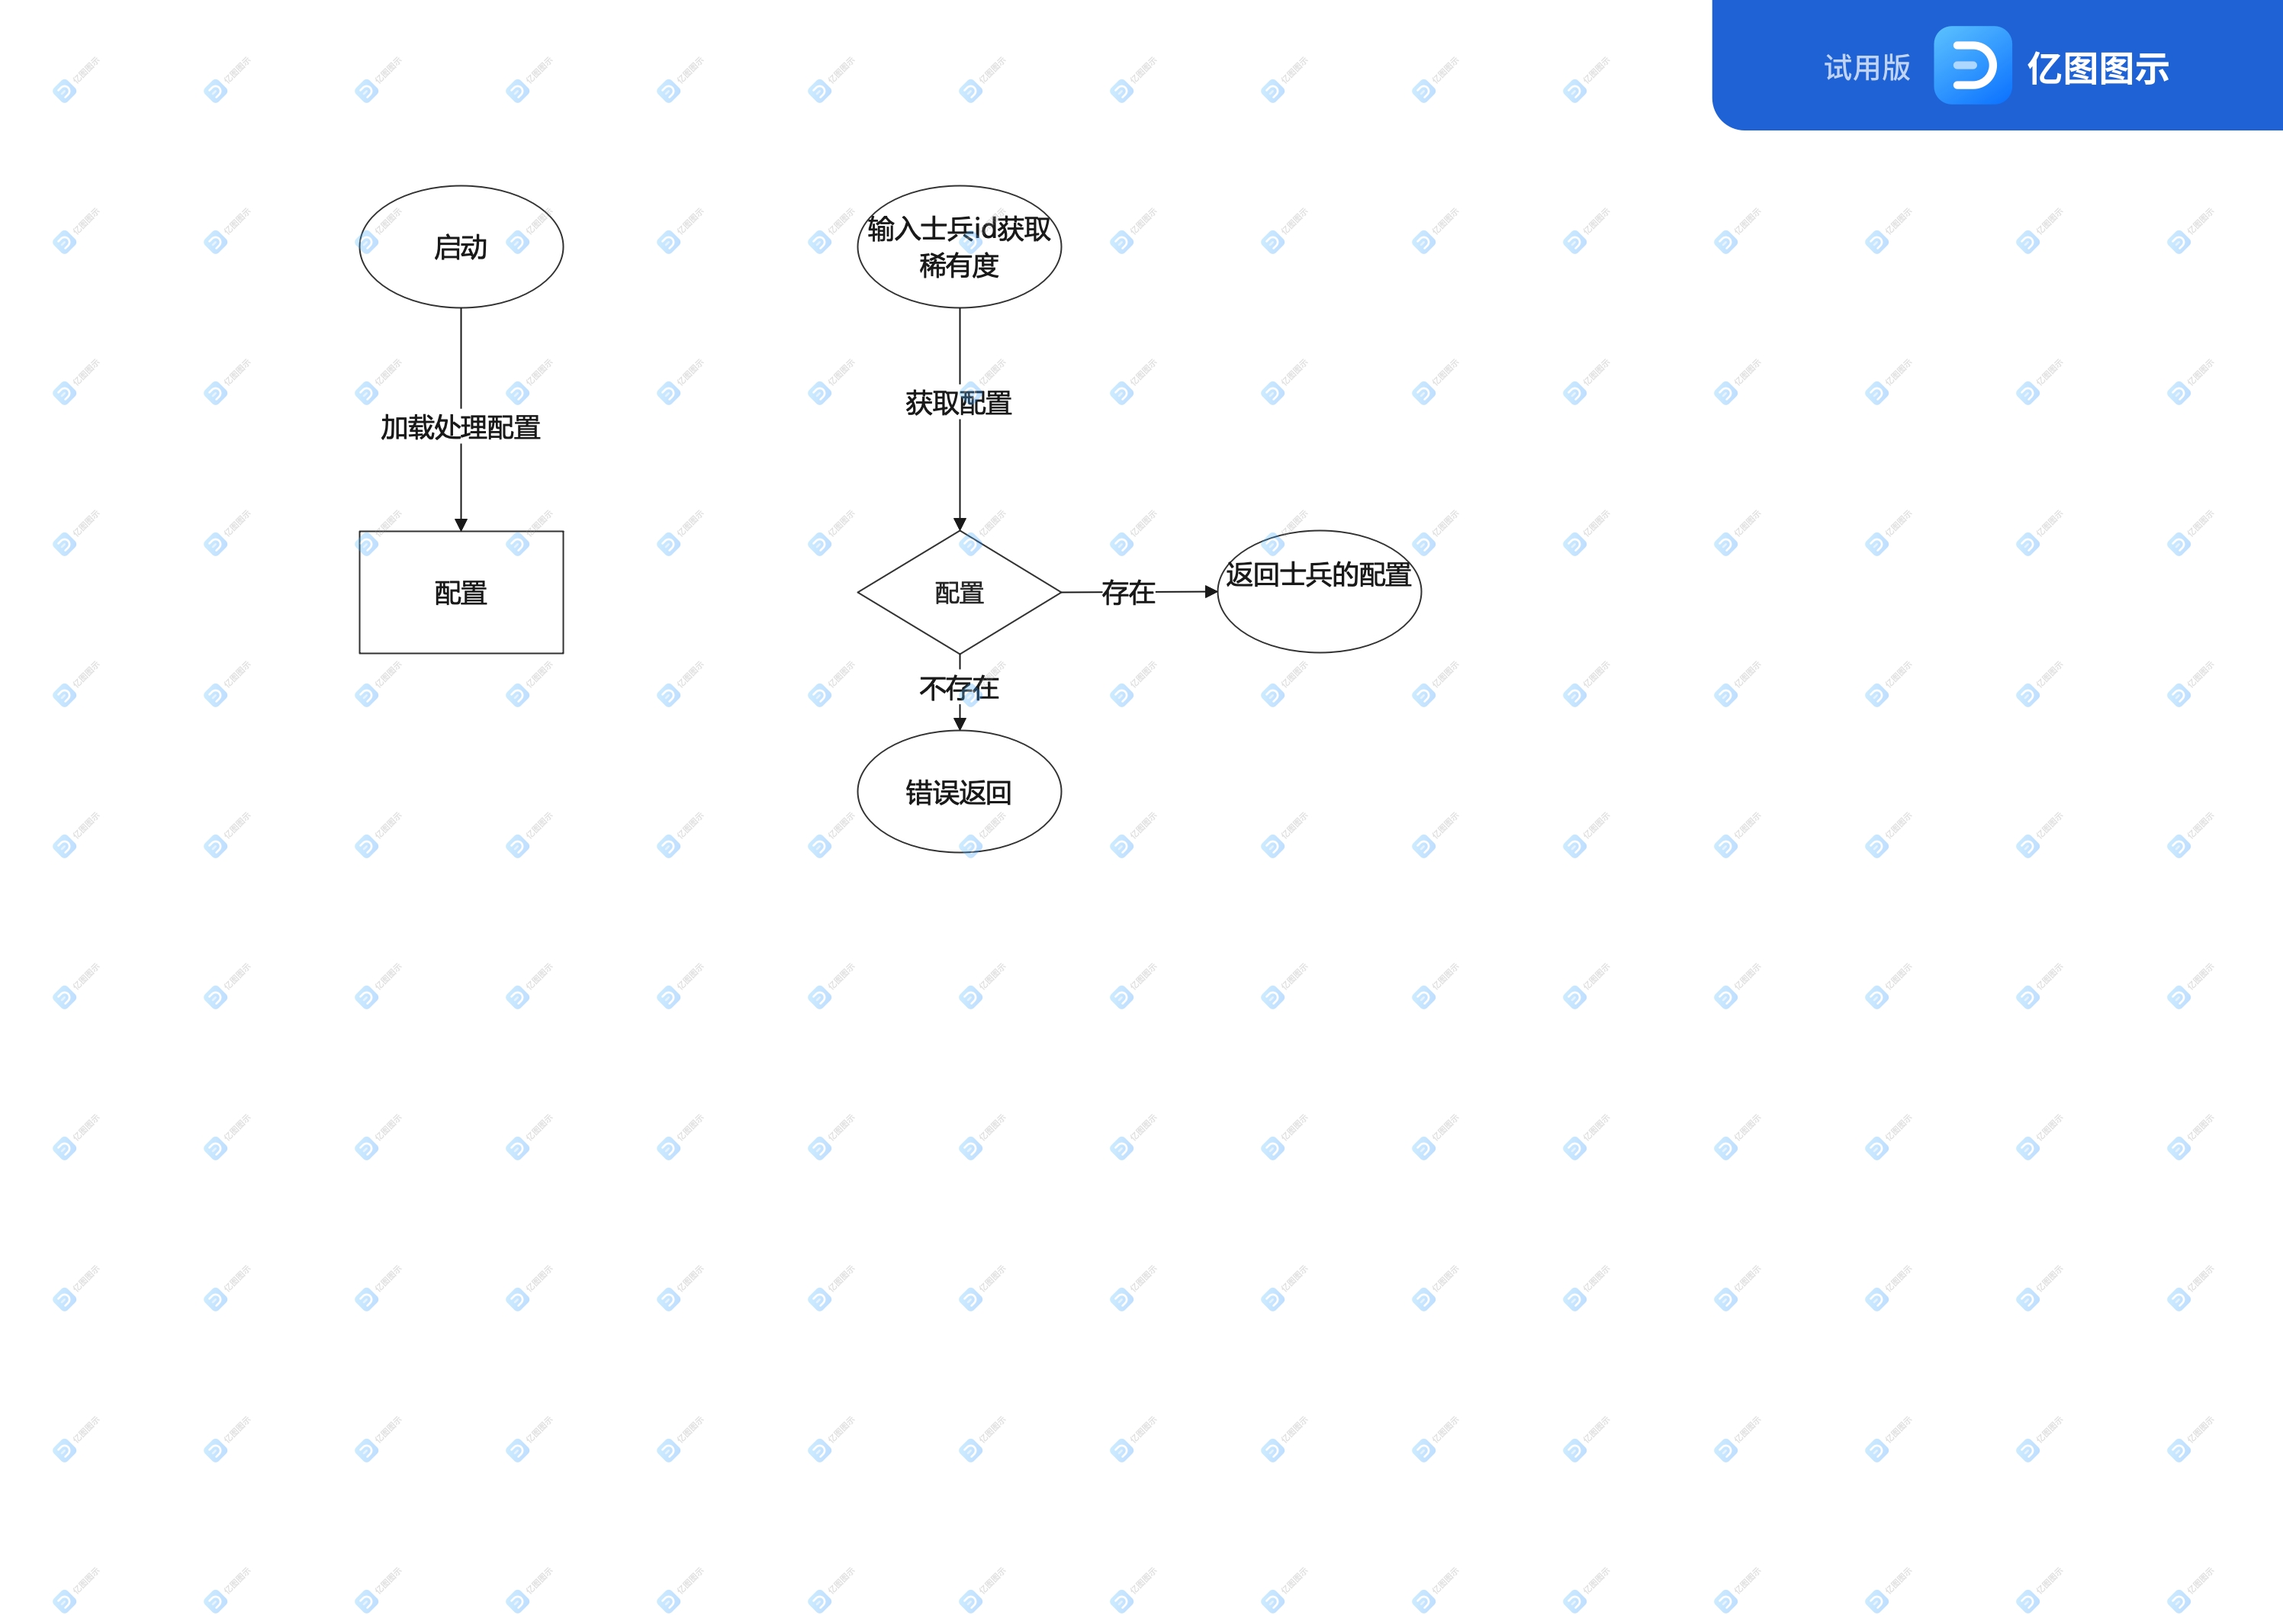
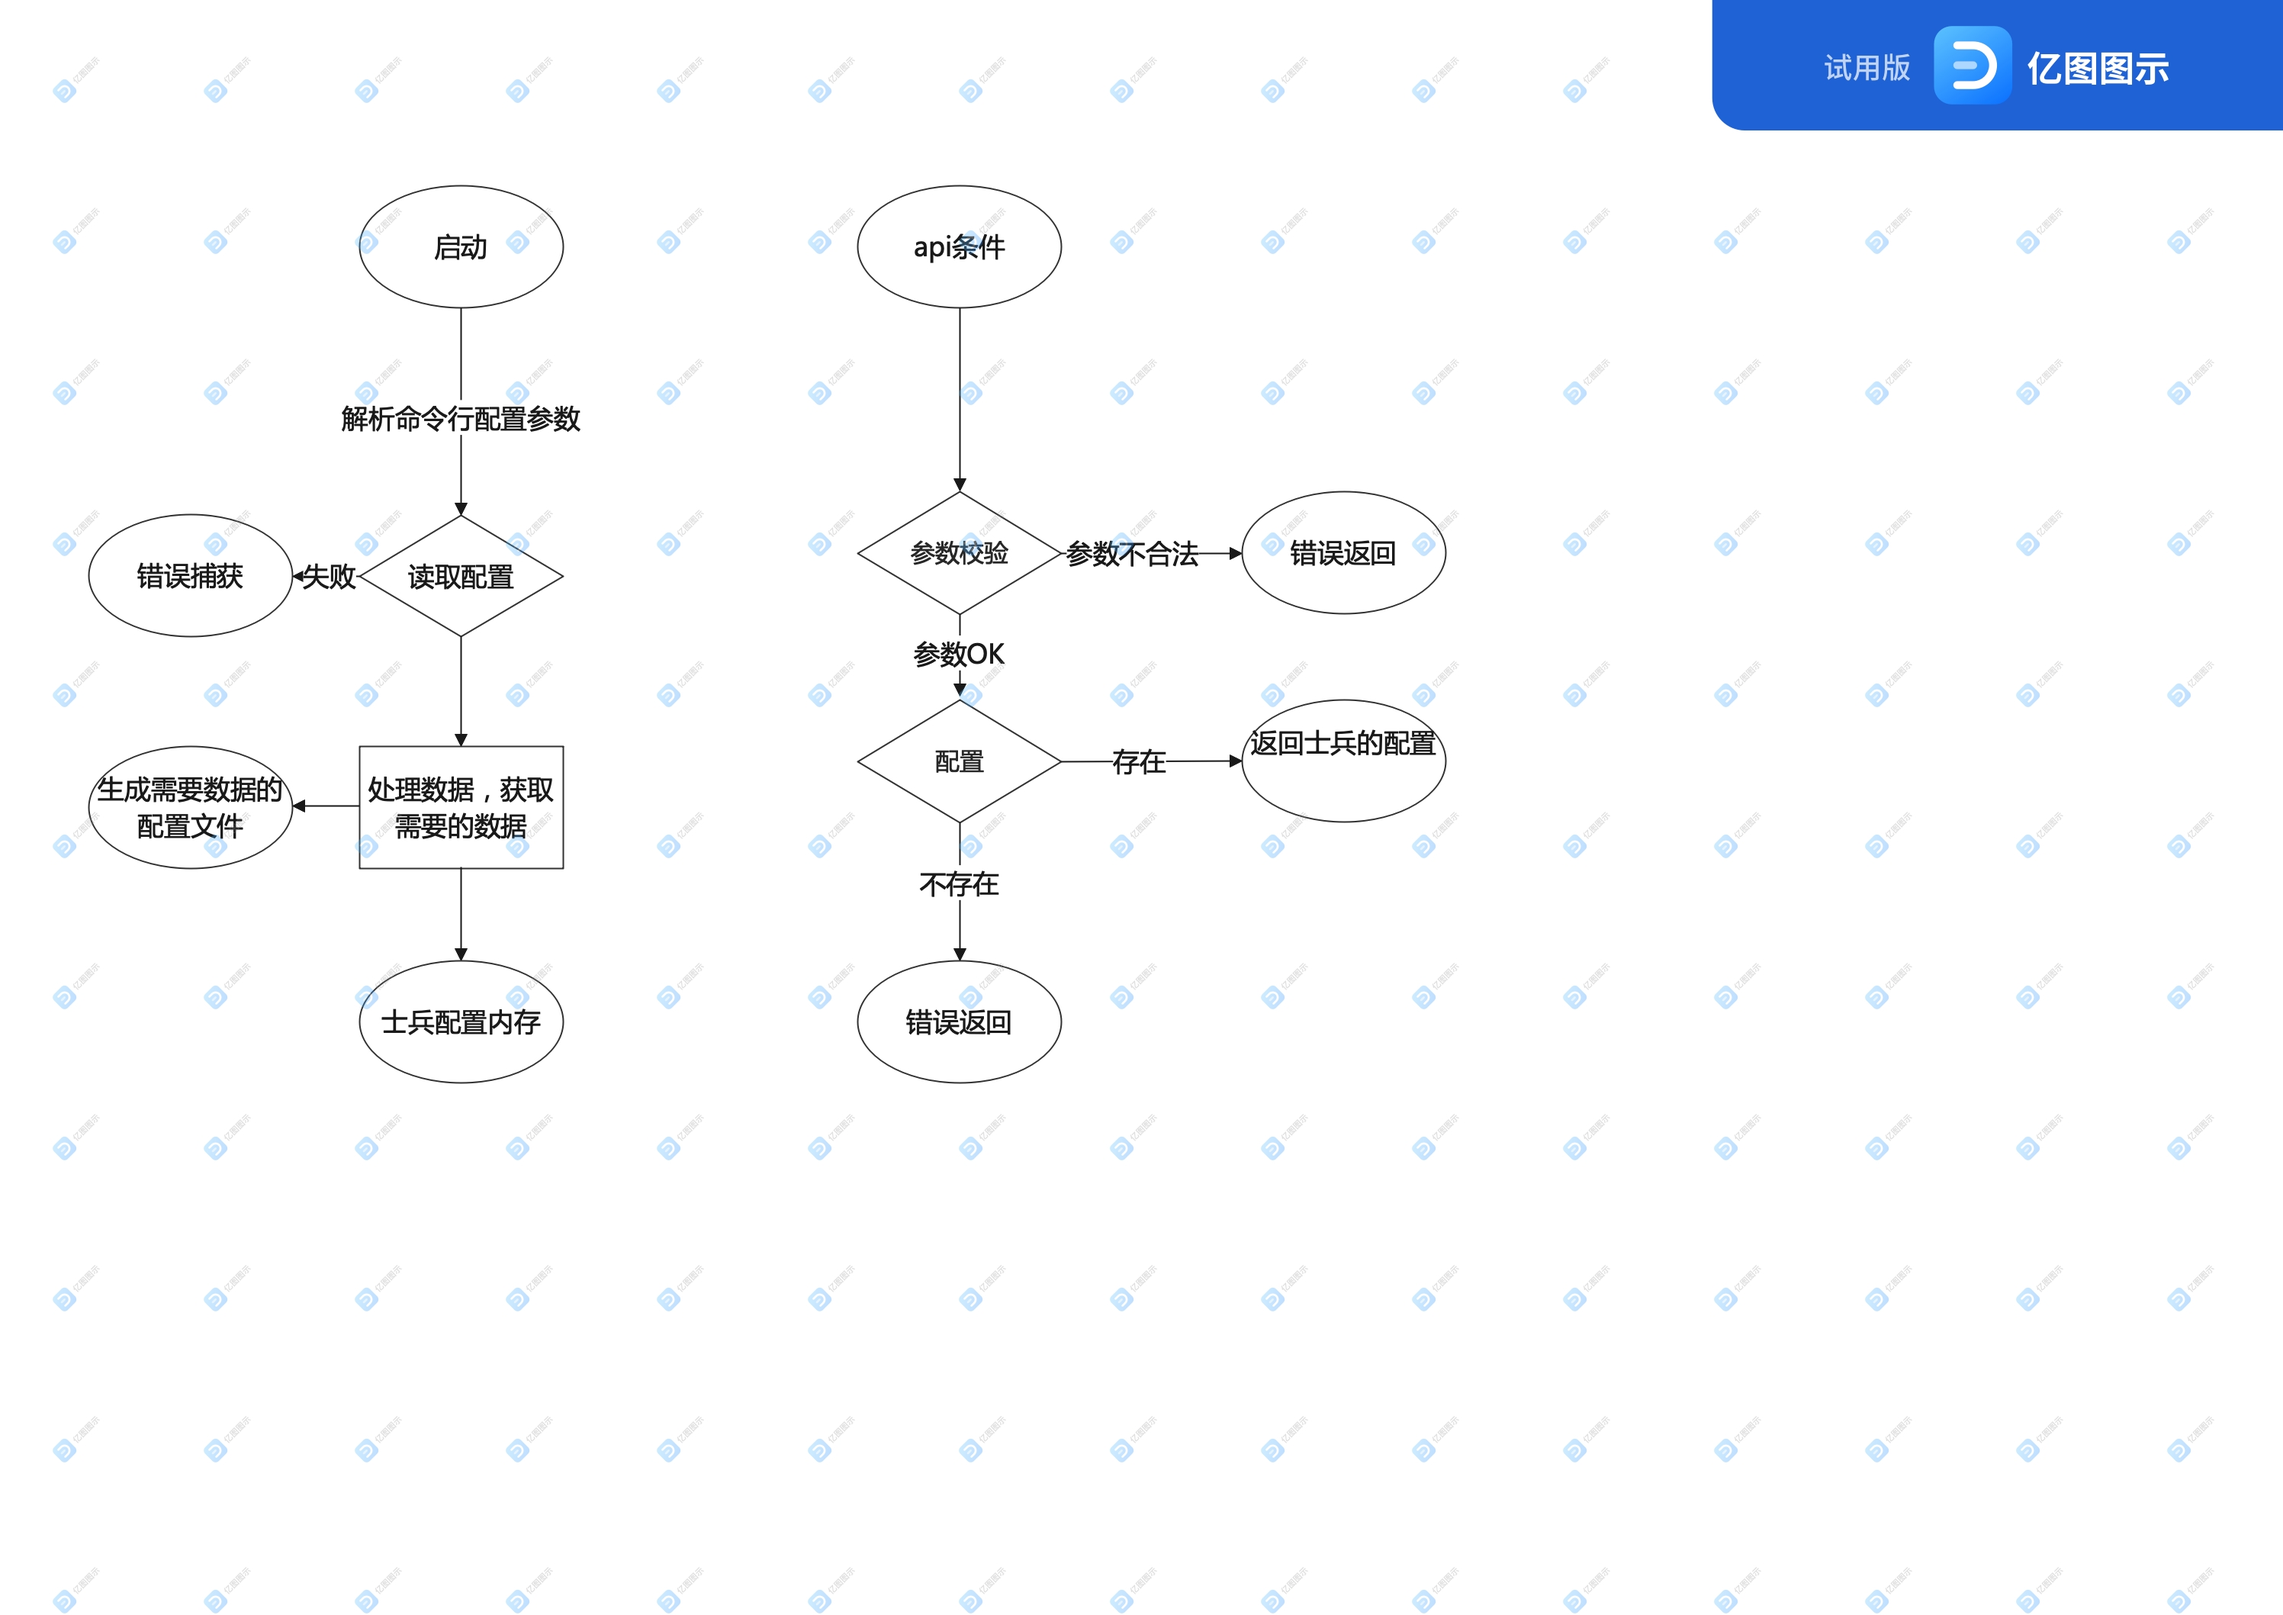
修改技术文档服务启动命令行参数描述，增加流程图流程

diff --git a/app/main.go b/app/main.go
@@ -10,7 +10,7 @@ import (
 
 // 定义命令行参数对应的变量
 //var configPath = flag.StringP("config", "c", "config.army.model.json", "Input Your config army")
-var configPath = flag.String("config", "config.army.model.json", "Input Your config army")
+var configPath = flag.String("config", "../config/config.army.model.json", "Input Your config army")
 
 func wordSepNormalizeFunc(f *flag.FlagSet, name string) flag.NormalizedName {
 	from := []string{"-", "_"}

diff --git a/README.md b/README.md
@@ -327,6 +327,10 @@ goconfig
 cd ./app/
 #编译
 go build
+#运行 ,config 默认目录为config/config.army.model.json
+go run main.go --config=../config/config.army.model.json
+或者
+go run main.go 
 ```
 
 ## 8.todo 
